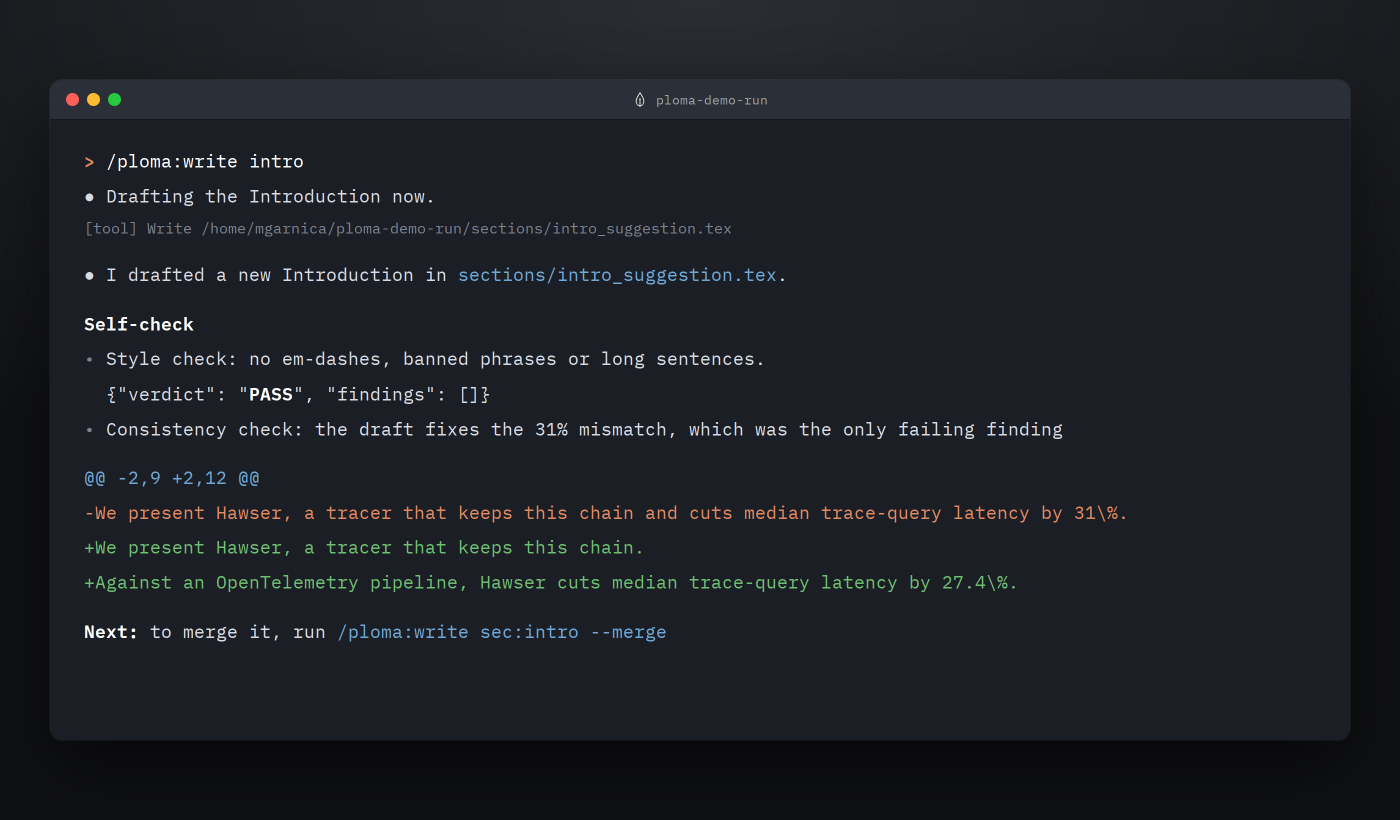
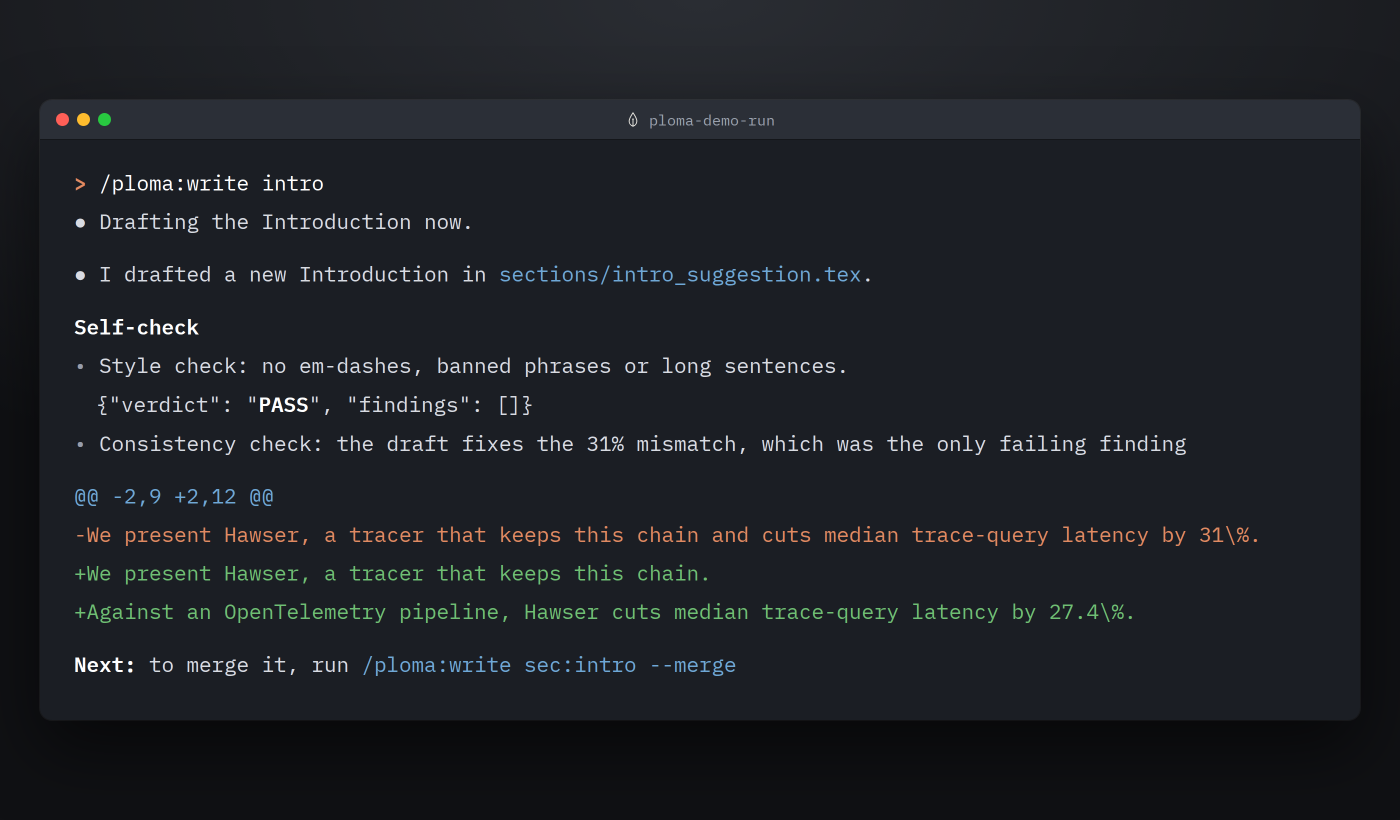
fix(brand): still layout out of the shared stylesheet, larger type, no local paths
Claude-Session: https://claude.ai/code/session_01KEHJ4rgSLvDtqaX8t3qs7g

diff --git a/media/shared/chrome.css b/media/shared/chrome.css
@@ -11,7 +11,7 @@
   --term-fg: #d8dbe2;
   --accent: #1f5f8b;
   --copper: #b4552d;
-  --dim: #7c8391;
+  --dim: #969dab;
   --pass: #6fbf73;
   --accent-hi: #6fa8d6;
   --copper-hi: #e08a62;
@@ -23,14 +23,8 @@
 
 * { box-sizing: border-box; margin: 0; padding: 0; }
 
-html, body { width: 1400px; height: 820px; overflow: hidden; }
-
 body {
   background: radial-gradient(120% 90% at 50% 0%, var(--studio-a) 0%, var(--studio-b) 70%);
-  display: flex;
-  align-items: center;
-  justify-content: center;
-  gap: 28px;
   font-family: var(--mono);
   color: var(--term-fg);
   -webkit-font-smoothing: antialiased;
@@ -54,7 +48,7 @@ body {
   padding: 0 16px;
   background: #2b2f37;
   border-bottom: 1px solid #14161a;
-  font-size: 13px;
+  font-size: 15px;
   color: #9aa1ad;
 }
 
@@ -81,8 +75,8 @@ body {
 .term .body {
   flex: 1;
   padding: 26px 34px;
-  font-size: 18px;
-  line-height: 1.6;
+  font-size: 21px;
+  line-height: 1.55;
 }
 
 .row { display: block; margin: 0 0 6px; }
@@ -96,7 +90,7 @@ body {
 .prompt { color: #ffffff; }
 .prompt::before { content: "> "; color: var(--copper-hi); font-weight: 600; }
 
-.tool { color: var(--dim); font-size: 15px; }
+.tool { color: var(--dim); font-size: 17px; }
 .say::before { content: "\25CF  "; color: var(--term-fg); }
 .bullet { padding-left: 22px; text-indent: -22px; }
 .bullet::before { content: "\2022  "; color: var(--dim); }
@@ -116,18 +110,18 @@ body {
   background: var(--paper);
   color: var(--ink);
   font-family: var(--serif);
-  font-size: 15.5px;
+  font-size: 17px;
   line-height: 1.5;
   box-shadow: 0 2px 10px rgba(0, 0, 0, 0.35);
 }
 .page .ln { white-space: normal; }
 .page b { color: var(--ink); }
 .page code { font-family: var(--mono); font-size: 0.85em; color: var(--accent); }
-.page .h1 { font-size: 23px; font-weight: 700; line-height: 1.25; margin-bottom: 10px; }
-.page .h2 { font-size: 17px; font-weight: 700; color: var(--accent); margin: 18px 0 6px; }
-.page .meta { font-size: 13.5px; color: #5d584f; }
-.page .claim { display: grid; grid-template-columns: 34px 1fr; margin-bottom: 7px; }
-.page .claim .ln:first-child { font-family: var(--mono); font-size: 13px; color: var(--copper); padding-top: 2px; }
+.page .h1 { font-size: 26px; font-weight: 700; line-height: 1.25; margin-bottom: 10px; }
+.page .h2 { font-size: 19px; font-weight: 700; color: var(--accent); margin: 18px 0 6px; }
+.page .meta { font-size: 16px; color: #5d584f; }
+.page .claim { display: grid; grid-template-columns: 40px 1fr; margin-bottom: 7px; }
+.page .claim .ln:first-child { font-family: var(--mono); font-size: 16px; color: var(--copper); padding-top: 1px; }
 
 /* question box (AskUserQuestion) */
 .ask {
@@ -137,7 +131,7 @@ body {
   margin: 10px 0 16px;
   background: #20242b;
 }
-.chip { display: inline-block; margin-bottom: 10px; padding: 1px 12px; border-radius: 6px; background: var(--accent); color: #ffffff; font-size: 15px; }
+.chip { display: inline-block; margin-bottom: 10px; padding: 1px 12px; border-radius: 6px; background: var(--accent); color: #ffffff; font-size: 17px; }
 .q { color: #ffffff; margin-bottom: 4px; }
 .opts { counter-reset: opt; margin-top: 12px; }
 .opt { counter-increment: opt; position: relative; display: grid; grid-template-columns: 58px 1fr; padding: 6px 0; }
@@ -146,7 +140,7 @@ body {
 .opt.rec::after { content: "\276F"; position: absolute; left: 2px; top: 6px; color: var(--copper-hi); font-weight: 600; }
 .opt .lab { color: var(--term-fg); }
 .opt.rec .lab { color: var(--copper-hi); font-weight: 600; }
-.opt .desc { grid-column: 2; color: var(--dim); font-size: 16px; line-height: 1.5; }
+.opt .desc { grid-column: 2; color: var(--dim); font-size: 17px; line-height: 1.5; }
 
 /* gate verdict line */
-.gate { font-size: 20px; padding: 12px 16px; border-left: 3px solid var(--pass); background: rgba(111, 191, 115, 0.08); border-radius: 4px; }
+.gate { font-size: 22px; padding: 12px 16px; border-left: 3px solid var(--pass); background: rgba(111, 191, 115, 0.08); border-radius: 4px; }

diff --git a/media/stills/spec.html b/media/stills/spec.html
@@ -7,15 +7,15 @@
 <link rel="preconnect" href="https://fonts.gstatic.com" crossorigin>
 <link href="https://fonts.googleapis.com/css2?family=IBM+Plex+Mono:wght@400;600&family=Source+Serif+4:opsz,wght@8..60,400;8..60,700&display=block" rel="stylesheet">
 <link rel="stylesheet" href="../shared/chrome.css">
+<link rel="stylesheet" href="stills.css">
 <title>ploma spec</title>
 </head>
 <body>
 <!-- Every .ln is verbatim from media/transcripts/spec.md or spec-paper_spec.md. -->
-<div class="win term" style="width:740px;height:740px">
+<div class="win term" style="width:760px;height:740px">
 <div class="titlebar"><span class="dot r"></span><span class="dot y"></span><span class="dot g"></span><div class="title"><img src="../../assets/logo/ploma-mark-dark.svg" alt="">ploma-demo-run</div></div>
 <div class="body">
 <div class="row prompt"><span class="ln">/ploma:spec --no-verify</span></div>
-<div class="row tool"><span class="ln">[tool] Write /home/mgarnica/ploma-demo-run/quality_reports/paper_spec.md</span></div>
 <div class="gap"></div>
 <div class="row say"><span class="ln">The spec is written at <i class="mk">`</i><code>quality_reports/paper_spec.md</code><i class="mk">`</i>.</span></div>
 <div class="gap"></div>
@@ -26,7 +26,7 @@
 <div class="row bullet"><span class="ln"><i class="mk">**</i><b>L9:</b><i class="mk">**</i> run /ploma:lit-review before writing related work.</span></div>
 </div>
 </div>
-<div class="win pdfwin" style="width:520px;height:740px">
+<div class="win pdfwin" style="width:540px;height:740px">
 <div class="titlebar"><span class="dot r"></span><span class="dot y"></span><span class="dot g"></span><div class="title">paper_spec.md</div></div>
 <div class="page">
 <div class="h1"><span class="ln">Paper Spec: Tracing Agentic Workloads at Scale</span></div>
@@ -38,7 +38,6 @@
 <div class="claim"><span class="ln">C1</span><span class="ln">Hawser's trace model links each model decision to the tool results in its context, so a task's trace is a DAG rather than a tree of spans.</span></div>
 <div class="claim"><span class="ln">C2</span><span class="ln">Hawser's query planner answers causal questions by walking indexed edges backwards instead of scanning whole traces.</span></div>
 <div class="claim"><span class="ln">C3</span><span class="ln">Against an OpenTelemetry pipeline, Hawser cuts median trace-query latency by 27.4%.</span></div>
-<div class="claim"><span class="ln">C5</span><span class="ln">Hawser stores 1.1 times the bytes of the OpenTelemetry pipeline.</span></div>
 </div>
 </div>
 </body>

diff --git a/media/stills/ship.html b/media/stills/ship.html
@@ -7,17 +7,16 @@
 <link rel="preconnect" href="https://fonts.gstatic.com" crossorigin>
 <link href="https://fonts.googleapis.com/css2?family=IBM+Plex+Mono:wght@400;600&family=Source+Serif+4:opsz,wght@8..60,400;8..60,700&display=block" rel="stylesheet">
 <link rel="stylesheet" href="../shared/chrome.css">
+<link rel="stylesheet" href="stills.css">
 <title>ploma commit</title>
 </head>
 <body>
 <!-- Every .ln is verbatim from media/transcripts/commit.md. -->
-<div class="win term" style="width:1260px;height:560px">
+<div class="win term" style="width:1300px;height:470px">
 <div class="titlebar"><span class="dot r"></span><span class="dot y"></span><span class="dot g"></span><div class="title"><img src="../../assets/logo/ploma-mark-dark.svg" alt="">ploma-demo-run</div></div>
 <div class="body">
 <div class="row prompt"><span class="ln">/ploma:commit intro: ground the latency claim in bench.json --no-pr</span></div>
 <div class="row say"><span class="ln">Running the gate.</span></div>
-<div class="row tool"><span class="ln">[tool] Bash python3 "/home/mgarnica/papers/scripts/commit_gate.py" prepare --json</span></div>
-<div class="row tool"><span class="ln">[tool] Bash python3 "/home/mgarnica/papers/scripts/doctor.py" .</span></div>
 <div class="gap"></div>
 <div class="row ok gate"><span class="ln"><i class="mk">**</i><b>Gate:</b><i class="mk">**</i> <b class="pass">it passed.</b> <b class="pass">compile</b>, <b class="pass">bib</b> and <b class="pass">consistency</b> all passed and are up to date. No override was used.</span></div>
 <div class="gap"></div>

diff --git a/media/stills/write.html b/media/stills/write.html
@@ -7,16 +7,16 @@
 <link rel="preconnect" href="https://fonts.gstatic.com" crossorigin>
 <link href="https://fonts.googleapis.com/css2?family=IBM+Plex+Mono:wght@400;600&family=Source+Serif+4:opsz,wght@8..60,400;8..60,700&display=block" rel="stylesheet">
 <link rel="stylesheet" href="../shared/chrome.css">
+<link rel="stylesheet" href="stills.css">
 <title>ploma write</title>
 </head>
 <body>
 <!-- Every .ln is verbatim from media/transcripts/write.md. -->
-<div class="win term" style="width:1300px;height:660px">
+<div class="win term" style="width:1320px;height:620px">
 <div class="titlebar"><span class="dot r"></span><span class="dot y"></span><span class="dot g"></span><div class="title"><img src="../../assets/logo/ploma-mark-dark.svg" alt="">ploma-demo-run</div></div>
 <div class="body">
 <div class="row prompt"><span class="ln">/ploma:write intro</span></div>
 <div class="row say"><span class="ln">Drafting the Introduction now.</span></div>
-<div class="row tool"><span class="ln">[tool] Write /home/mgarnica/ploma-demo-run/sections/intro_suggestion.tex</span></div>
 <div class="gap"></div>
 <div class="row say"><span class="ln">I drafted a new Introduction in <i class="mk">`</i><code>sections/intro_suggestion.tex</code><i class="mk">`</i>.</span></div>
 <div class="gap"></div>

diff --git a/media/stills/grill.html b/media/stills/grill.html
@@ -7,11 +7,12 @@
 <link rel="preconnect" href="https://fonts.gstatic.com" crossorigin>
 <link href="https://fonts.googleapis.com/css2?family=IBM+Plex+Mono:wght@400;600&family=Source+Serif+4:opsz,wght@8..60,400;8..60,700&display=block" rel="stylesheet">
 <link rel="stylesheet" href="../shared/chrome.css">
+<link rel="stylesheet" href="stills.css">
 <title>ploma grill</title>
 </head>
 <body>
 <!-- Every .ln is verbatim from media/transcripts/grill.md or grill-decision-log.md. -->
-<div class="win term" style="width:1260px;height:700px">
+<div class="win term" style="width:1300px;height:750px">
 <div class="titlebar"><span class="dot r"></span><span class="dot y"></span><span class="dot g"></span><div class="title"><img src="../../assets/logo/ploma-mark-dark.svg" alt="">ploma-demo-run</div></div>
 <div class="body">
 <div class="row prompt"><span class="ln">/ploma:grill sections/intro.tex</span></div>

diff --git a/media/stills/stills.css b/media/stills/stills.css
@@ -1,0 +1,10 @@
+/* Still-only layout: a 1400 by 820 stage with the windows centred.
+   chrome.css holds the shared tokens and components. */
+html, body { width: 1400px; height: 820px; overflow: hidden; }
+
+body {
+  display: flex;
+  align-items: center;
+  justify-content: center;
+  gap: 28px;
+}
